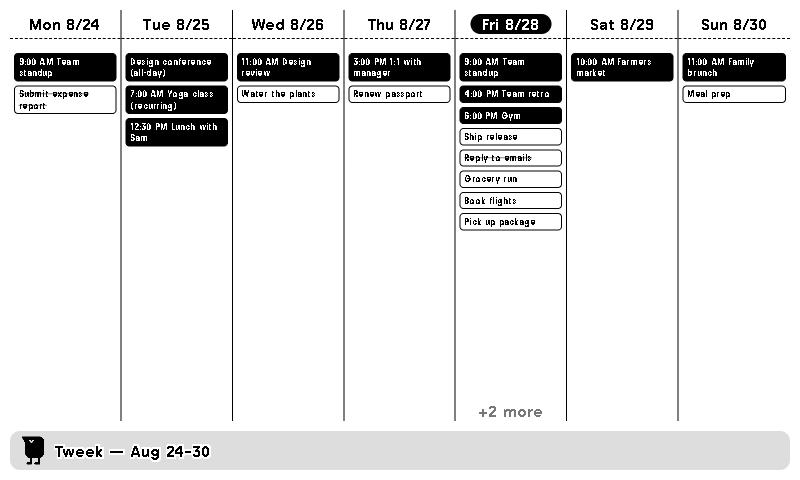
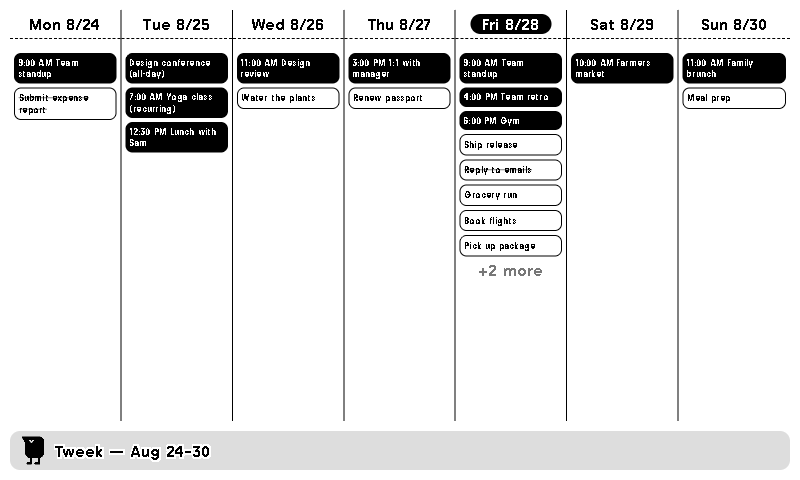
refactor: framework-first markup + recipe-guide alignment
Align with TRMNL's recipe publishing guide:
- full.liquid: swap raw inline background/border-radius/padding/gap/spacer
  for Framework classes (bg--black, rounded--small, p--1, gap--[4px],
  mt--auto); add 1bit:text--black to gray labels so small gray text stays
  legible on 1-bit TRMNL OG. Keep the few inline styles Framework can't
  express (flex-grow, black column/header dividers, 9px density font).
- settings.yml: Calendar ID instructions use HTML <a href> + <br/> instead
  of a bare URL.
- README: declare full landscape layout focus.
- refresh preview.png to the refactored render.

Verified: 33 unit tests pass; trmnlp lint clean; screenshot confirms visual
parity (today highlight, strikethrough, all-day, recurring, overflow).

Changed region(s): [[0.0, 0.125, 1.0, 0.5938], [0.5938, 0.8438, 0.6875, 0.875]]

diff --git a/README.md b/README.md
@@ -8,7 +8,7 @@
 ## Features
 
 - 📅 7-column week view of your Tweek tasks and events
-- 🖥 Designed for the **full** layout (half and quadrant show a "best viewed at full size" notice)
+- 🖥 Designed for the **full landscape** layout (half and quadrant show a "best viewed at full size" notice)
 - 🔄 Self-contained — a serverless function fetches and shapes the data on every poll (refreshes every 30 min)
 - ⚙ Configurable calendar (by ID), week start day (Mon/Sun), and 12h/24h time format
 
